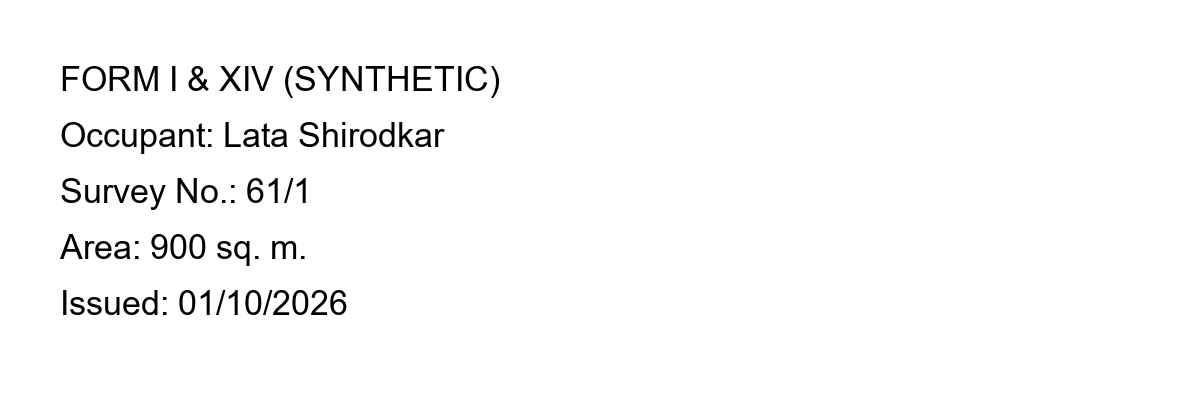
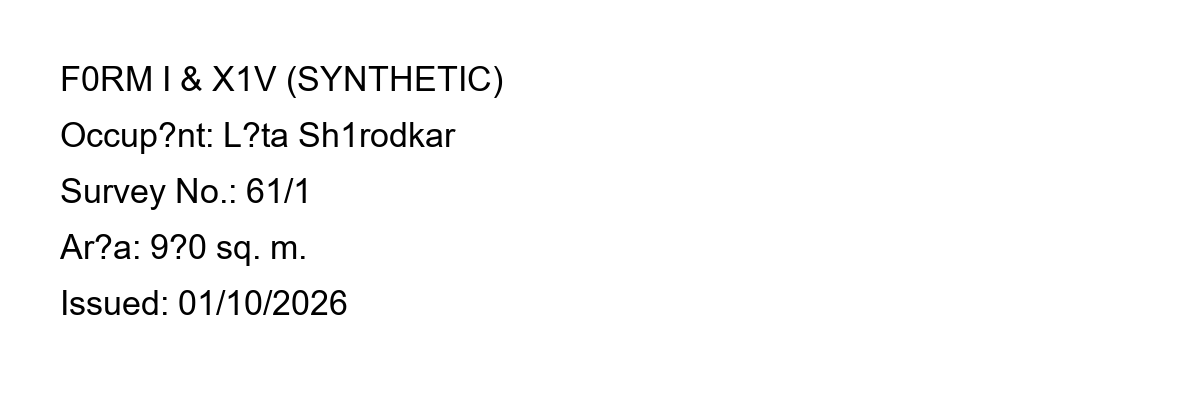
LA-11: render its image from the damaged scan text
LA-11's labels expect a low-confidence reading and a name mismatch, but its images showed the
clean printed text, so a correct reader raised neither. The builder no longer writes a separate
print text for it (and removes a stale one), so the images now show "L?ta Sh1rodkar" and
"9?0". Truth labels are unchanged: the paper is damaged, the record is not. Only LA-11's files
changed (the other 12 images are byte-identical).

Re-run of LA-11's row (gemini-3.5-flash-lite, preflight passed; Tesseract):
- Gemini, clean and degraded: copied "L?ta Sh1rodkar" at confidence 0.85, exactly the threshold,
  so it was accepted (wrong); "9?0" was accepted at 0.85 / 0.90 but is not a number, so it went to
  review as invalid_value. Flags: invalid_value only; expected low_confidence and name_match.
- Tesseract, clean and degraded: name and area not found; flags: name_match only.
- name_match passes "L?ta Sh1rodkar" against "Lata Shirodkar" at 0.917: name normalisation drops
  non-letters before the fuzzy compare. Reported, not fixed in this commit.

Test: LA-11's render source is the damaged text (fails if the clean print text comes back).

diff --git a/data/synthetic/build_messy_documents.py b/data/synthetic/build_messy_documents.py
@@ -56,13 +56,13 @@ DOCS = [
         "truth": {"name": "Anita Sawant", "survey_number": "301/7", "area": 10000, "area_unit": "sq ft",
                   "issue_date": "2026-10-01"},
     },
-    {   # low-quality scan: OCR is poor too, so nothing is accepted below threshold
+    {   # low-quality scan: the paper copy itself is damaged, so letters are lost ("L?ta Sh1rodkar", "9?0").
+        # The image is rendered from this damaged text (no separate print text), so the expected flags
+        # (low confidence, name mismatch) are what a careful reader of the image should produce. The truth
+        # stays the intact record: the paper is damaged, the person is not.
         "case": "case_11", "doc_type": "ownership_record",
         "text": "F0RM I & X1V (SYNTHETIC)\nOccup?nt: L?ta Sh1rodkar\nSurvey No.: 61/1\n"
                 "Ar?a: 9?0 sq. m.\nIssued: 01/10/2026\n",
-        # what is actually printed on the paper; the .txt above simulates a bad scan of it
-        "print_text": "FORM I & XIV (SYNTHETIC)\nOccupant: Lata Shirodkar\nSurvey No.: 61/1\n"
-                      "Area: 900 sq. m.\nIssued: 01/10/2026\n",
         "document": [pf("name", "L?ta Sh1rodkar", 0.62), pf("survey_number", "61/1", 0.90),
                      pf("area", 900, 0.70), pf("area_unit", "sqm", 0.90), pf("issue_date", "2026-10-01", 0.90)],
         "ocr": {"text": "F0RM I & X1V\nOccup nt: Lata Shirodkar\nAr a: 900 sq m", "confidence": 0.58},
@@ -110,8 +110,11 @@ def main() -> None:
         (folder / "documents").mkdir(parents=True, exist_ok=True)
         (folder / "fake").mkdir(parents=True, exist_ok=True)
         (folder / "documents" / f"{d['doc_type']}.txt").write_text(d["text"], encoding="utf-8")
+        printed = folder / "documents" / f"{d['doc_type']}.print.txt"
         if "print_text" in d:
-            (folder / "documents" / f"{d['doc_type']}.print.txt").write_text(d["print_text"], encoding="utf-8")
+            printed.write_text(d["print_text"], encoding="utf-8")
+        elif printed.exists():
+            printed.unlink()                     # the image is rendered from the scan text itself
         fake = {"document": d["document"], "ocr": d.get("ocr"), "ocr_text": d.get("ocr_text", [])}
         (folder / "fake" / f"{d['doc_type']}.json").write_text(json.dumps(fake, indent=2) + "\n", encoding="utf-8")
         labels["documents"].append({"case": d["case"], "doc_type": d["doc_type"], "truth": d["truth"]})

diff --git a/tests/test_render_images.py b/tests/test_render_images.py
@@ -29,3 +29,13 @@ def test_degraded_differs_from_clean_and_has_lower_contrast():
 def test_clean_render_is_black_text_on_white():
     lo, hi = render_document(TEXT, "clean").convert("L").getextrema()
     assert lo < 40 and hi > 240
+
+
+def test_la11_image_shows_the_damaged_paper_so_its_expected_flags_can_be_true():
+    """LA-11's labels expect low confidence and a name mismatch, so its image must show the damaged text."""
+    from pathlib import Path
+    from scripts.render_images import _source_text
+    folder = Path(__file__).resolve().parent.parent / "data" / "synthetic" / "land_acquisition" / "case_11"
+    assert not (folder / "documents" / "ownership_record.print.txt").exists()
+    text = _source_text(folder, "ownership_record")
+    assert "L?ta Sh1rodkar" in text and "9?0" in text
